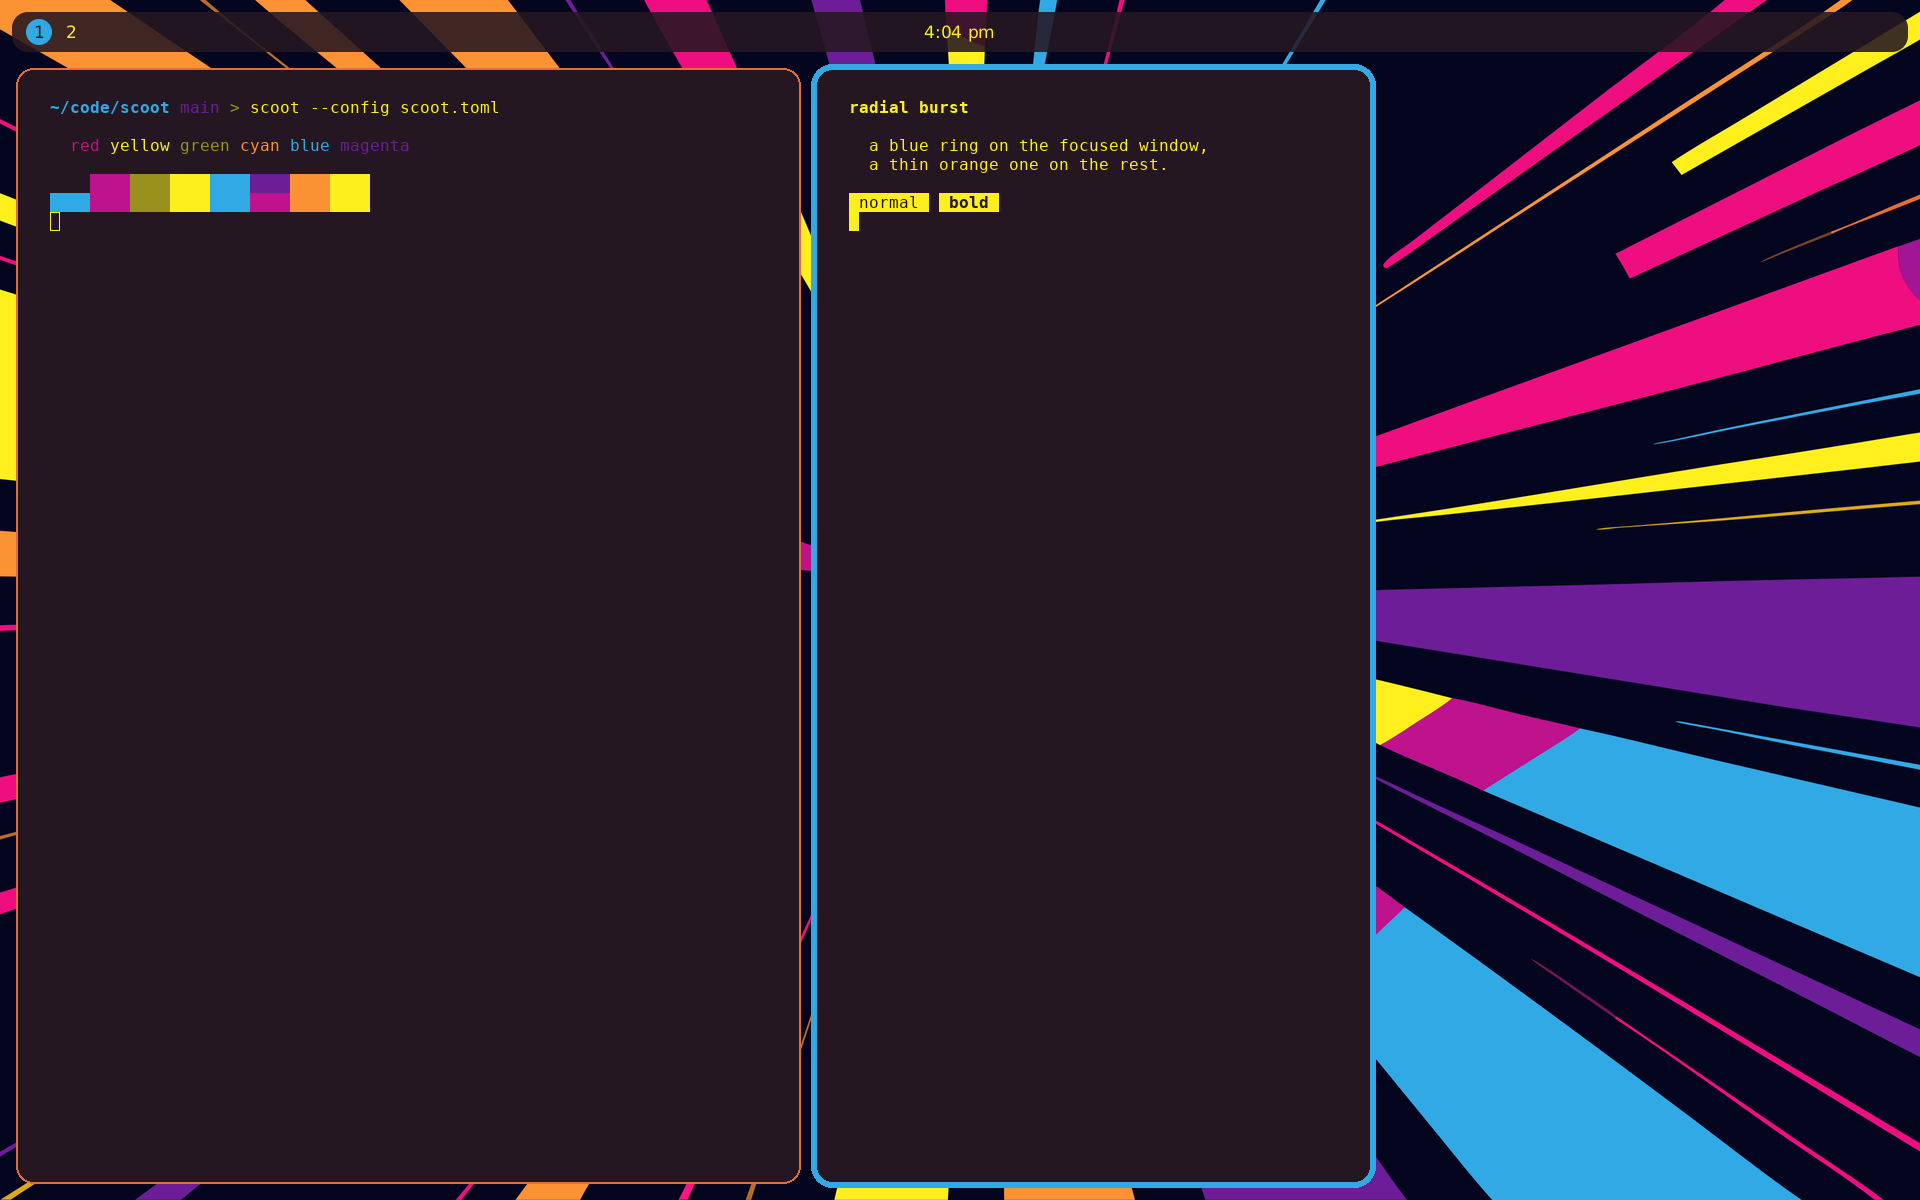
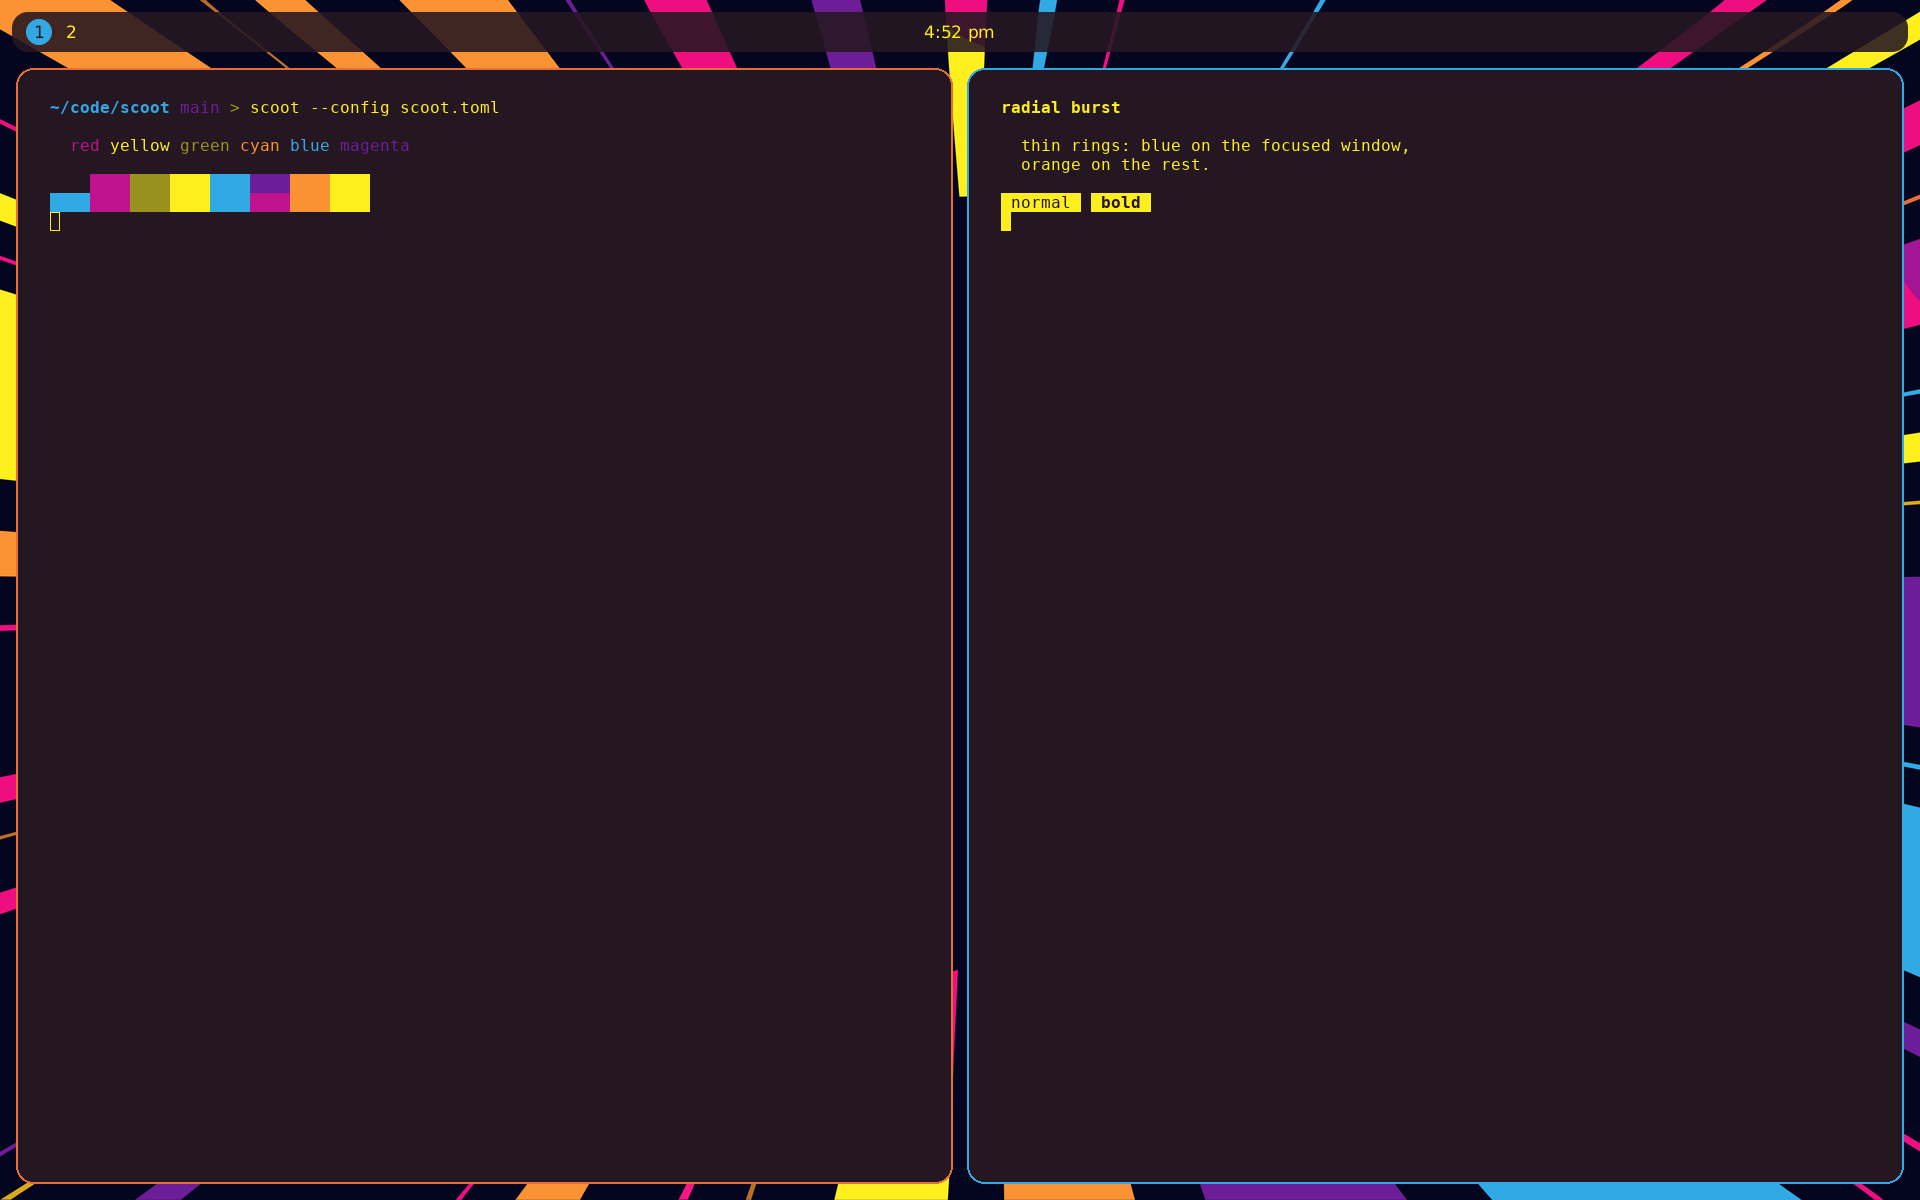
docs(examples): refresh the radial burst preview for the thin rings and default columns
The preview is the example at 0ef48bc run as committed on the Asahi M2 (headless scoot):
thin blue and orange rings, columns at half. The README's alt text and file table follow
(and mention the Super+m full-width column).

Claude-Session: https://claude.ai/code/session_01SDH1pybFNewAf7wWjh2AUu

Changed region(s): [[0.4062, 0.0308, 1.0, 1.0]]

diff --git a/docs/examples/radial-burst/README.md b/docs/examples/radial-burst/README.md
@@ -4,11 +4,11 @@ A dark, high-contrast look built around one wallpaper: colorful rays exploding
 from a dark center. It is an **opt-in example**, not a default: nothing in scoot,
 scootbar or scootbg changes unless you use these files.
 
-![scoot with the radial burst look: a floating translucent bar with circled workspaces, two terminals with a blue ring on the focused one and a thin orange ring on the other, the wallpaper beside them](../../assets/radial-burst-preview.png)
+![scoot with the radial burst look: a floating translucent bar with circled workspaces, two terminals side by side with thin rings, blue on the focused one and orange on the other, the wallpaper showing around them](../../assets/radial-burst-preview.png)
 
 | File | For |
 | --- | --- |
-| [`scoot.toml`](scoot.toml) | the compositor: background, ring colors and widths, rounded corners, column widths, the wallpaper |
+| [`scoot.toml`](scoot.toml) | the compositor: background, ring colors and widths, rounded corners, column widths with a full-width column on `Super+m`, the wallpaper |
 | [`bar.toml`](bar.toml) | scootbar: a floating, rounded, translucent bar, workspaces as circles, the clock |
 | [`foot.ini`](foot.ini) | foot: the palette, padding and font size (needs a foot with `[colors-dark]` sections, 1.24 or later) |
 
